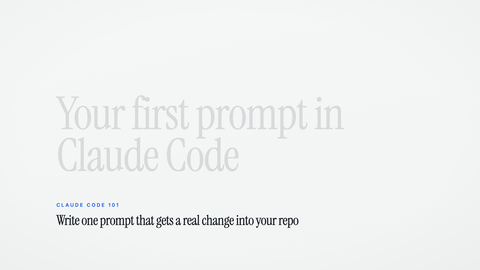
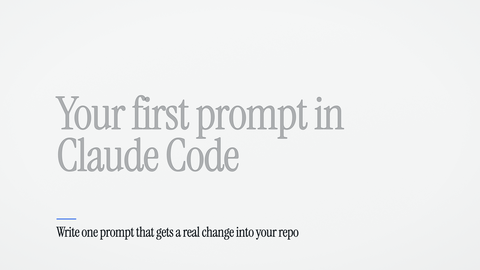
opener: the ground has to look like type, not like a failed load
At 0.12 ink the big serif read as washed out rather than as texture, and
the reasoning behind that number turns out to have been borrowed from a
frame it does not apply to. In the reference the title sits BEHIND a person,
who breaks it up and supplies contrast of their own; on an empty page 12%
across a near-white sheet is not restraint, it is a title that looks like it
failed to load. 0.32 keeps it clearly the ground — the promise above it is
at full ink, a three-fold gap — while actually being there.

Weight cannot come from fontWeight here: Instrument Serif ships one cut, so
800 on it does nothing at all and a headless render will not synthesise a
bolder one. It comes from a hairline stroke in the same colour, sized as a
fraction of the type rather than fixed, which thickens the stems without
touching the letterforms.

And the measure comes in to 88%. Full-bleed was what read as stretched: nine
words edge to edge puts seven on a line spanning the whole frame and two on
the next, so the block is a wide band with a short tail and the first line
looks horizontally pulled. Pulled in, it breaks nearer the middle and the
block reads as a mass, which is what a title page wants.

The kicker is now optional in a way that holds up. Dropped, a short accent
rule takes its place — not decoration filling a hole: the kicker was doing
structural work, marking where the read-this zone began, and without
anything there the promise floats in the lower left as a stray caption. The
[…]

Changed region(s): [[0.0938, 0.3556, 0.7188, 0.6519], [0.0938, 0.8, 0.625, 0.8889], [0.125, 0.7407, 0.25, 0.7704]]

diff --git a/renderer/src/components/OpenerScene.tsx b/renderer/src/components/OpenerScene.tsx
@@ -33,8 +33,36 @@ type Step = {
   mark?: boolean;
 };
 
-/** The ink the big type is set at. See the file header — this is the whole design. */
-const GROUND_INK = 0.12;
+/**
+ * The ink the big type is set at.
+ *
+ * 0.32, and it started at 0.12 on the reasoning in the file header — that at 30%
+ * the words compete with the promise. On the reference frame that was true because
+ * a PERSON stood in front of the type, breaking it up and adding contrast of their
+ * own. On an empty page it is not: 12% ink across a near-white sheet does not read
+ * as texture, it reads as a title that failed to load, and the frame looks washed
+ * out rather than composed.
+ *
+ * At 0.32 the words are unmistakably there and still clearly the ground — the
+ * promise below them is at full ink, which is a three-fold difference, and that gap
+ * is what keeps the hierarchy rather than the absolute value.
+ */
+const GROUND_INK = 0.32;
+
+/**
+ * Optical weight for a single-weight face.
+ *
+ * Instrument Serif ships one weight, 400, so `fontWeight: 800` on it does nothing
+ * at all — the browser has no bolder cut to reach for and (in a headless render)
+ * will not synthesise one. The two levers that DO work on a display serif are ink,
+ * above, and stroke: painting a hairline of the same colour around each glyph
+ * thickens the stems without touching the letterforms.
+ *
+ * Kept proportional to the size rather than fixed. 0.9% of the cap height is about
+ * two pixels at 250pt, which reads as a heavier cut; past about 2% the counters in
+ * `e` and `a` start closing up and it reads as a smudge.
+ */
+const GROUND_STROKE = 0.009;
 
 export const OpenerScene: React.FC<{
   theme: ResolvedTheme;
@@ -73,7 +101,7 @@ export const OpenerScene: React.FC<{
   // that the type FILLS the frame: nine words at the size four words want would run
   // off the page, and four words at the size nine want would leave a band of empty
   // paper across the middle. Measured against a 1700px measure at these weights.
-  const groundSize = words.length <= 5 ? 250 : words.length <= 7 ? 205 : 170;
+  const groundSize = words.length <= 5 ? 250 : words.length <= 7 ? 205 : 178;
 
   return (
     <Stage justify="center" align="stretch">
@@ -94,14 +122,26 @@ export const OpenerScene: React.FC<{
             style={{
               fontFamily: theme.fontSerif,
               fontSize: groundSize,
+              // 400 because that is the only cut this face has. The weight comes
+              // from the stroke below; see GROUND_STROKE.
               fontWeight: 400,
+              WebkitTextStroke: `${(groundSize * GROUND_STROKE).toFixed(2)}px ${withAlpha(theme.text, GROUND_INK)}`,
               // Tight. A serif at this size with normal leading breaks into
               // separate lines of unrelated words; at 0.92 the lines lock into one
               // block, which is what makes it read as a mass rather than as text.
               lineHeight: 0.92,
               letterSpacing: -4,
               color: withAlpha(theme.text, GROUND_INK),
-              width: '100%',
+              // 88% of the box, not 100%.
+              //
+              // Full-bleed is what read as "stretched": a nine-word title set edge
+              // to edge puts seven words on a line that spans the whole frame and
+              // two on the next, so the block is a wide band with a short tail and
+              // the eye reads the first line as horizontally pulled. Pulling the
+              // measure in breaks the lines nearer the middle, which makes the
+              // block a mass rather than a banner — and a mass is what a title page
+              // wants.
+              width: '88%',
             }}
           >
             {ground}
@@ -136,7 +176,25 @@ export const OpenerScene: React.FC<{
             >
               {kicker}
             </div>
-          ) : null}
+          ) : (
+            // No kicker: a short accent rule takes its place.
+            //
+            // Not decoration filling a hole. The kicker was doing structural work —
+            // it marked where the read-this zone began, so the promise had something
+            // to hang from. Strip it and the promise floats in the lower left with
+            // nothing establishing that corner, which on a page that is otherwise
+            // one huge pale word reads as a stray caption. A 90-pixel rule in the
+            // accent says "the frame starts here" in one mark instead of three words.
+            <div
+              style={{
+                width: 90,
+                height: 4,
+                borderRadius: 2,
+                background: theme.accentText,
+                opacity: inkFor(step.show === 'promise', Boolean(step.promise)),
+              }}
+            />
+          )}
 
           <div
             style={{

diff --git a/renderer/src/Root.tsx b/renderer/src/Root.tsx
@@ -4456,13 +4456,15 @@ const openerVizProps: LessonVideoProps = {
       endMs: 21000,
       props: {
         ground: 'Your first prompt in Claude Code',
-        kicker: 'Claude Code 101',
         promise: 'Write one prompt that gets a real change into your repo',
-        byline: 'Coursesmith',
+        // No kicker and no byline, which is the shape a real clip actually wants:
+        // the title and what will be done, and nothing else on the page. That also
+        // makes this the baseline for the accent rule that stands in for the
+        // kicker — without it the promise floats in the lower left with nothing
+        // establishing the corner.
         steps: [
-          {startMs: 0, endMs: 7000, show: 'ground', promise: false, mark: false},
-          {startMs: 7000, endMs: 14500, show: 'promise', promise: true, mark: false},
-          {startMs: 14500, endMs: 21000, show: 'mark', promise: true, mark: true},
+          {startMs: 0, endMs: 9000, show: 'ground', promise: false, mark: false},
+          {startMs: 9000, endMs: 21000, show: 'promise', promise: true, mark: false},
         ],
       },
     },
